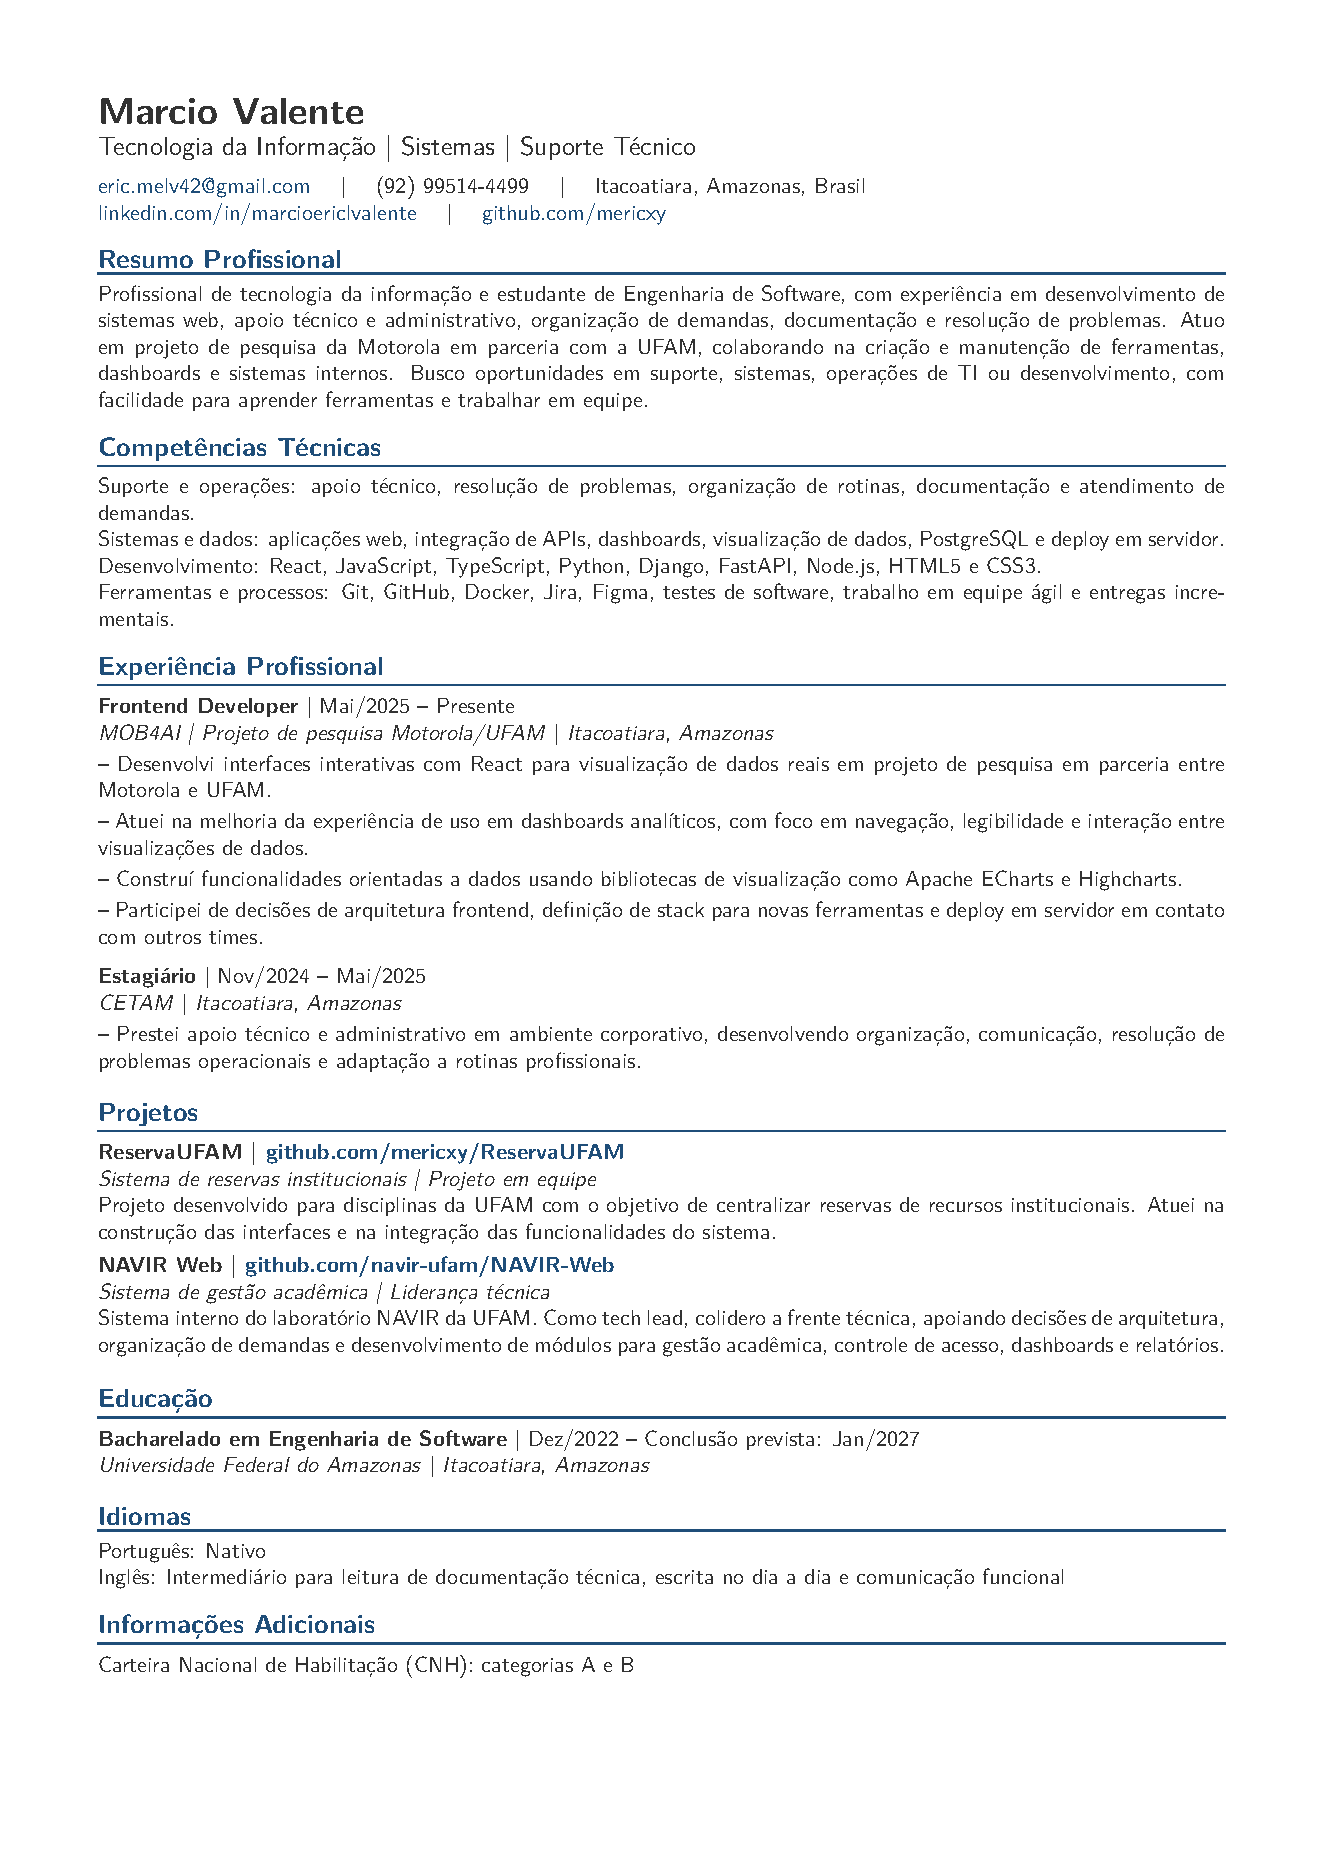
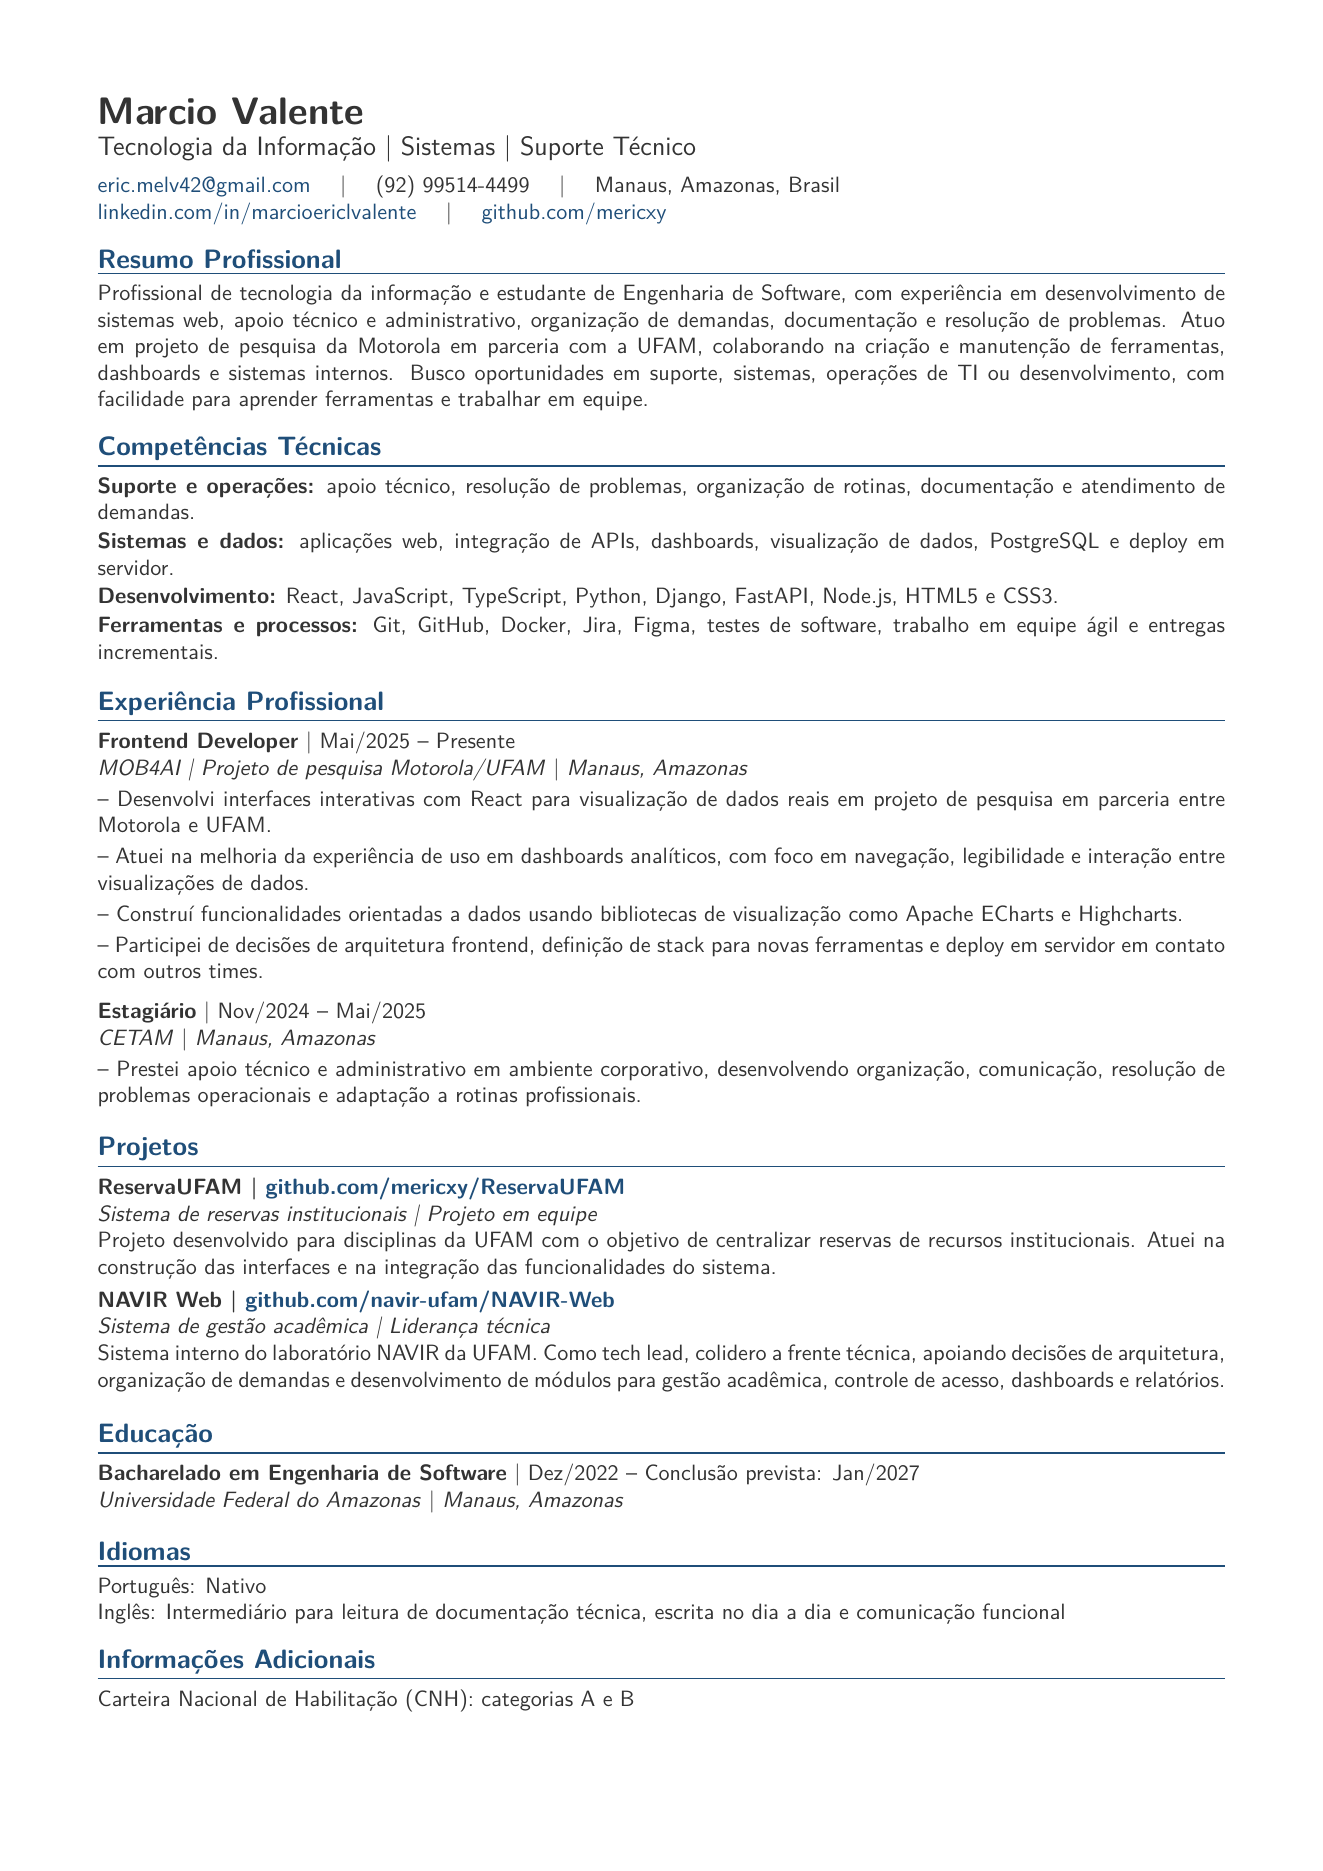
Update general resume location and skills

diff --git a/main.tex b/main.tex
@@ -49,6 +49,11 @@
 
 \newcommand{\achievement}[1]{-- #1\par\vspace{2pt}}
 
+\newcommand{\skill}[2]{%
+  \textbf{#1:} #2\par
+  \vspace{1pt}
+}
+
 \begin{document}
 
 {\LARGE\bfseries Marcio Valente}\par
@@ -59,7 +64,7 @@
 \quad | \quad
 (92) 99514-4499
 \quad | \quad
-Itacoatiara, Amazonas, Brasil\par
+Manaus, Amazonas, Brasil\par
 \href{https://www.linkedin.com/in/marcioericlvalente}{linkedin.com/in/marcioericlvalente}
 \quad | \quad
 \href{https://www.github.com/mericxy}{github.com/mericxy}
@@ -68,20 +73,20 @@ Itacoatiara, Amazonas, Brasil\par
 Profissional de tecnologia da informação e estudante de Engenharia de Software, com experiência em desenvolvimento de sistemas web, apoio técnico e administrativo, organização de demandas, documentação e resolução de problemas. Atuo em projeto de pesquisa da Motorola em parceria com a UFAM, colaborando na criação e manutenção de ferramentas, dashboards e sistemas internos. Busco oportunidades em suporte, sistemas, operações de TI ou desenvolvimento, com facilidade para aprender ferramentas e trabalhar em equipe.
 
 \sectiontitle{Competências Técnicas}
-Suporte e operações: apoio técnico, resolução de problemas, organização de rotinas, documentação e atendimento de demandas.\par
-Sistemas e dados: aplicações web, integração de APIs, dashboards, visualização de dados, PostgreSQL e deploy em servidor.\par
-Desenvolvimento: React, JavaScript, TypeScript, Python, Django, FastAPI, Node.js, HTML5 e CSS3.\par
-Ferramentas e processos: Git, GitHub, Docker, Jira, Figma, testes de software, trabalho em equipe ágil e entregas incrementais.
+\skill{Suporte e operações}{apoio técnico, resolução de problemas, organização de rotinas, documentação e atendimento de demandas.}
+\skill{Sistemas e dados}{aplicações web, integração de APIs, dashboards, visualização de dados, PostgreSQL e deploy em servidor.}
+\skill{Desenvolvimento}{React, JavaScript, TypeScript, Python, Django, FastAPI, Node.js, HTML5 e CSS3.}
+\skill{Ferramentas e processos}{Git, GitHub, Docker, Jira, Figma, testes de software, trabalho em equipe ágil e entregas incrementais.}
 
 \sectiontitle{Experiência Profissional}
-\role{Frontend Developer}{Mai/2025 -- Presente}{MOB4AI | Projeto de pesquisa Motorola/UFAM}{Itacoatiara, Amazonas}
+\role{Frontend Developer}{Mai/2025 -- Presente}{MOB4AI | Projeto de pesquisa Motorola/UFAM}{Manaus, Amazonas}
 \achievement{Desenvolvi interfaces interativas com React para visualização de dados reais em projeto de pesquisa em parceria entre Motorola e UFAM.}
 \achievement{Atuei na melhoria da experiência de uso em dashboards analíticos, com foco em navegação, legibilidade e interação entre visualizações de dados.}
 \achievement{Construí funcionalidades orientadas a dados usando bibliotecas de visualização como Apache ECharts e Highcharts.}
 \achievement{Participei de decisões de arquitetura frontend, definição de stack para novas ferramentas e deploy em servidor em contato com outros times.}
 
 \vspace{4pt}
-\role{Estagiário}{Nov/2024 -- Mai/2025}{CETAM}{Itacoatiara, Amazonas}
+\role{Estagiário}{Nov/2024 -- Mai/2025}{CETAM}{Manaus, Amazonas}
 \achievement{Prestei apoio técnico e administrativo em ambiente corporativo, desenvolvendo organização, comunicação, resolução de problemas operacionais e adaptação a rotinas profissionais.}
 
 \sectiontitle{Projetos}
@@ -90,7 +95,7 @@ Ferramentas e processos: Git, GitHub, Docker, Jira, Figma, testes de software, t
 \project{NAVIR Web | \href{https://github.com/navir-ufam/NAVIR-Web}{github.com/navir-ufam/NAVIR-Web}}{Sistema de gestão acadêmica | Liderança técnica}{Sistema interno do laboratório NAVIR da UFAM. Como tech lead, colidero a frente técnica, apoiando decisões de arquitetura, organização de demandas e desenvolvimento de módulos para gestão acadêmica, controle de acesso, dashboards e relatórios.}
 
 \sectiontitle{Educação}
-\role{Bacharelado em Engenharia de Software}{Dez/2022 -- Conclusão prevista: Jan/2027}{Universidade Federal do Amazonas}{Itacoatiara, Amazonas}
+\role{Bacharelado em Engenharia de Software}{Dez/2022 -- Conclusão prevista: Jan/2027}{Universidade Federal do Amazonas}{Manaus, Amazonas}
 
 \sectiontitle{Idiomas}
 Português: Nativo\par
